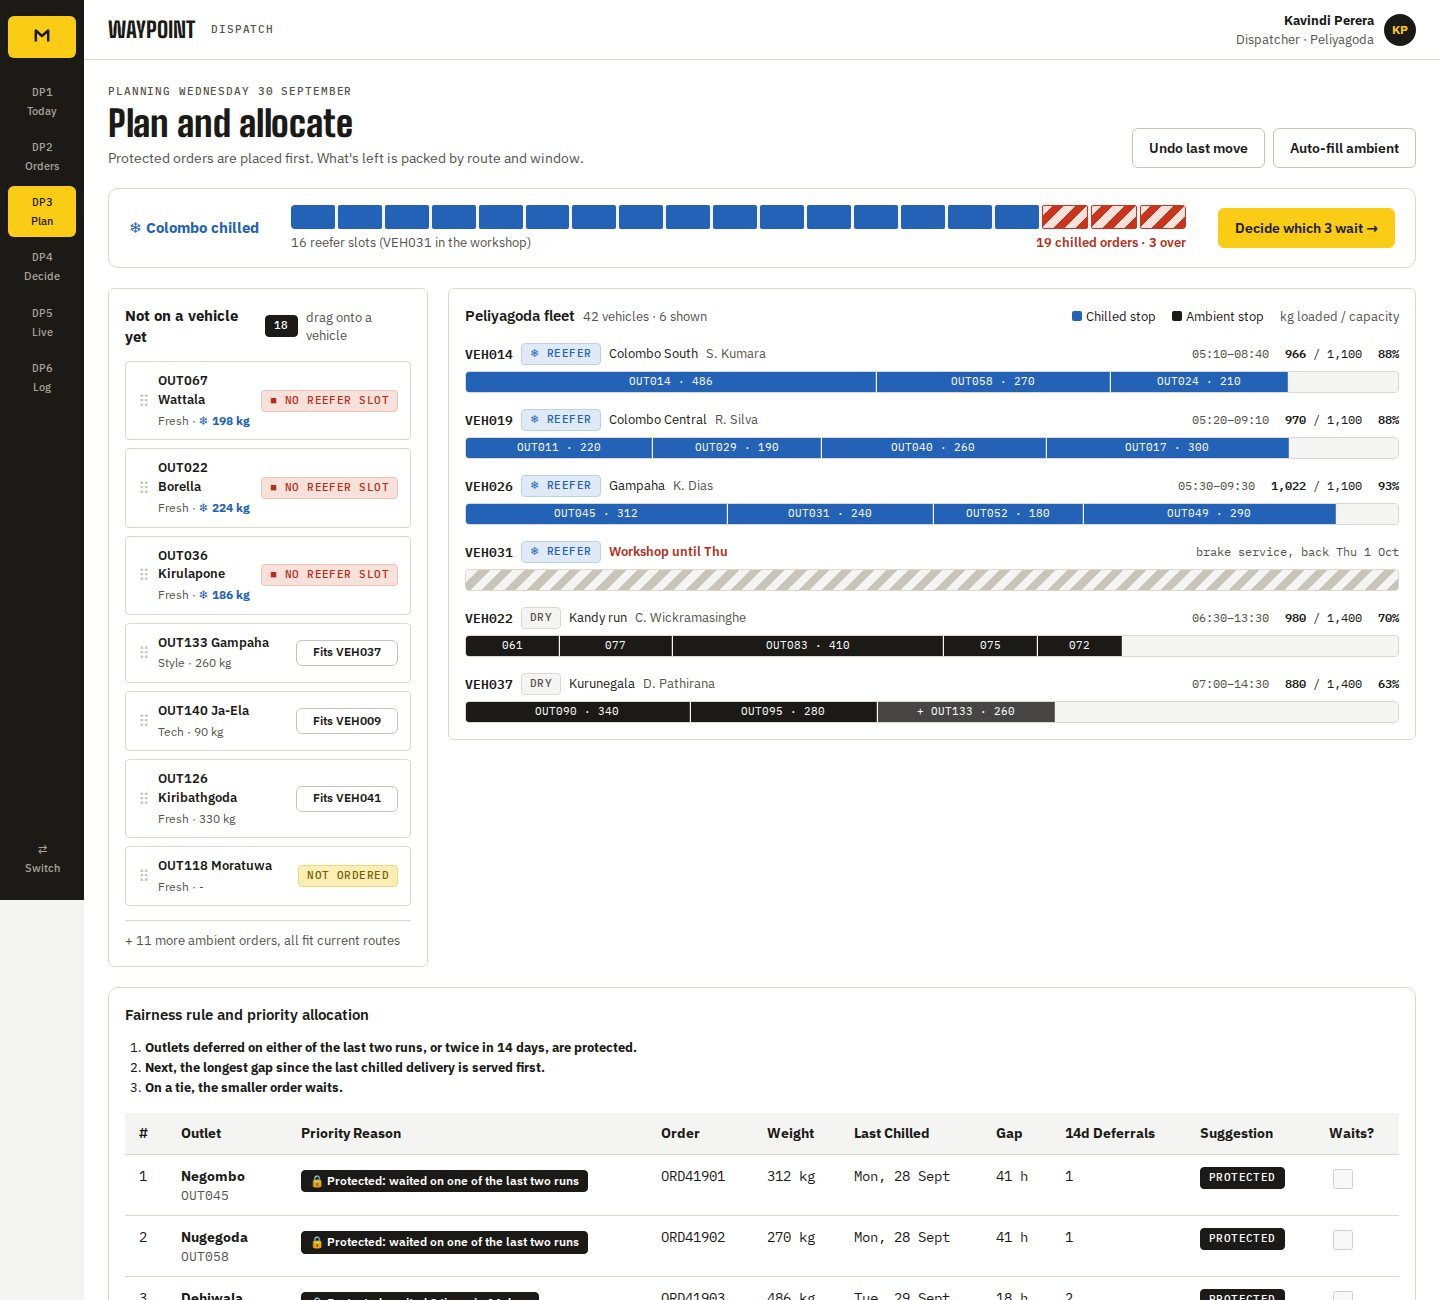
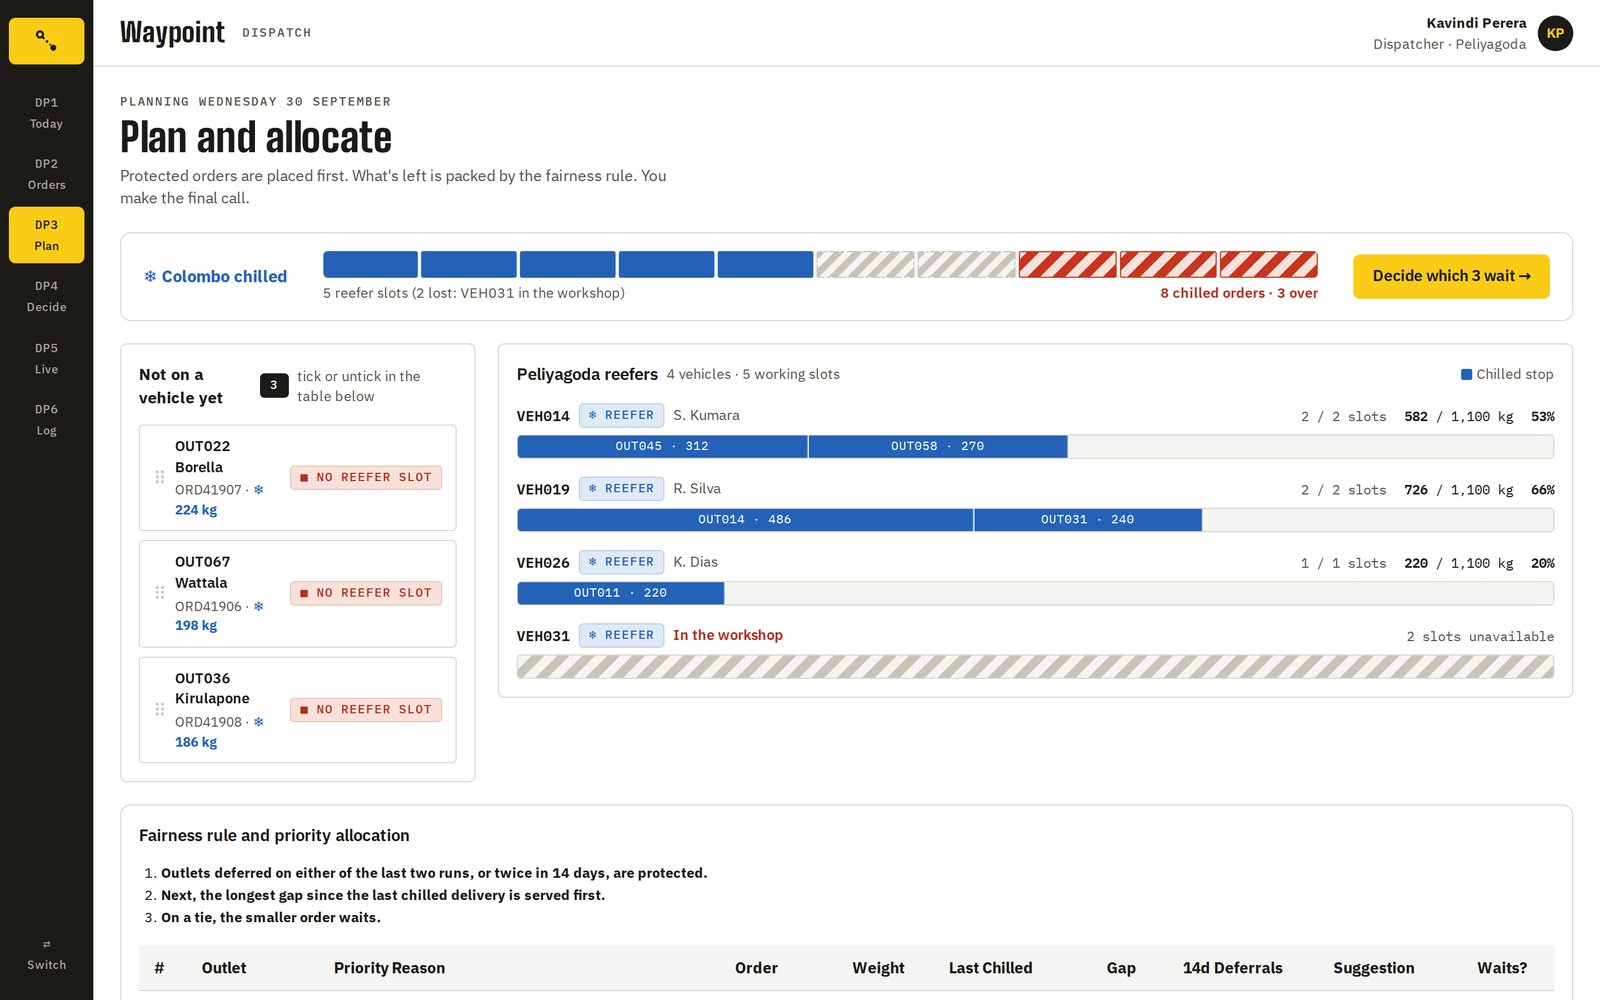
docs: README screenshots by role, demo walkthrough update (#105)
Closes #79

diff --git a/docs/DEMO_SCRIPT.md b/docs/DEMO_SCRIPT.md
@@ -20,7 +20,7 @@ Optional: run `npm run sim` in another terminal so VEH022 moves along the A1 on 
 ## 1. Dock shortfall: degradation scenario 1 (60 s)
 
 1. **Loader:** open VEH022 → load plan. "It's 04:30, Ruwan is loading the Kandy truck."
-2. Press **Short** on Rice for Kandy City → set 4 of 5 → reason **Damaged** → **Flag 1 short and keep loading**.
+2. Open stop 5 **Kandy City**, tap **Rice, 5 kg bag**, count 4 of 5 → on the shortfall screen pick **Damaged** → **Flag 1 short and keep loading**.
 3. Say: "The truck is not blocked."
 4. **Dispatcher** (point at it): the live feed already shows "Short at the dock: 4 of 5 Rice, 5 kg bag for Kandy City" and Dock shortfalls went up. No refresh.
 5. **Store:** switch to `OUT072 Kandy City` → Notices: "1 Rice, 5 kg bag arrive on the next delivery", with the reason.
@@ -30,7 +30,7 @@ Optional: run `npm run sim` in another terminal so VEH022 moves along the A1 on 
 
 1. **Dispatcher:** **Plan Wednesday**. "8 chilled orders, 5 reefer slots, because VEH031 is in the workshop."
 2. Point at the rule and the table: "Negombo and Nugegoda waited yesterday, Dehiwala waited twice in two weeks, so they are protected. Kelaniya has the longest gap. Three stores that got chilled goods yesterday wait."
-3. **Review 3 deferrals** → read the message → **Confirm and tell 3 stores**.
+3. **Decide which 3 wait →** → read the live store preview → **Confirm 3 deferrals**.
 4. **Store:** switch to `OUT022 Borella` → the notice explains why, and says they are protected next time.
 5. DP6 log: "Every decision is recorded with who made it and why."
 
@@ -38,11 +38,11 @@ Optional: run `npm run sim` in another terminal so VEH022 moves along the A1 on 
 
 1. **Driver:** tap **Online** at the top to switch to **No signal**. "Chamara is in the Kadugannawa pass. No signal."
 2. **Dispatcher:** the feed shows "VEH022 lost signal". (DP5 Live shows it too.)
-3. **Driver:** Kegalle → **Deliver here** → "Received by Sunil Perera" → **Complete delivery**. It says "saved on phone". Do the same for Peradeniya.
+3. **Driver:** Kegalle → **I've arrived · start handover** → the store manager signs on the screen, received by "Sunil Perera" → **Complete delivery**. It says "saved on phone". Do the same for Peradeniya.
 4. **Dispatcher** meanwhile: on the Runs card press **Move Kandy City to tomorrow** → **Confirm**. "Dispatch thinks Kandy City can't be reached today."
-5. **Driver:** Kandy City → deliver it anyway (he got there in time) → saved on phone.
-6. **Driver:** Saved tab → **Demo: signal is back**. Two records sync silently. "Clean records just go through. No pop-ups."
-7. **Driver:** Sync tab: "1 needs a decision. The phone says delivered, the office moved it to tomorrow." Tap **It was delivered. Keep my record**.
+5. **Driver:** Kandy City → hand it over anyway (he got there in time) → saved on phone.
+6. **Driver:** tap **No signal** at the top to come back online. Two records sync silently. "Clean records just go through. No pop-ups."
+7. **Driver:** Sync tab: "1 needs a decision. The phone says delivered, the office moved it to tomorrow." Tap **It was delivered, send my proof**.
 8. **Dispatcher:** feed shows "Resolved ... kept the driver's delivery", the run is 5 of 5, and DP6 shows the deferral as reversed with the reason.
 
 ## 4. Close (30 s)

diff --git a/README.md b/README.md
@@ -6,7 +6,7 @@ Waypoint is a delivery operations platform for a retail chain that supplies its 
 
 Team **smoothOperator** · Rootcode Tech-Triathlon 2026
 
-![Dispatcher dashboard](docs/screenshots/dispatcher-today.jpg)
+![Waypoint on the dispatcher's desktop, the dock tablet and the driver's phone](docs/screenshots/hero.jpg)
 
 ## The problem
 
@@ -36,10 +36,27 @@ Every change is published as an event and pushed to every open screen, so a shor
 
 When chilled orders exceed reefer slots, outlets that waited on either of the last two runs, or twice in 14 days, are protected. The rest are ranked by the longest gap since their last chilled delivery, and on a tie the smaller order waits. The dispatcher makes the final call and the store reads the reason in plain language.
 
-| | |
-|---|---|
-| ![Plan and allocate](docs/screenshots/dispatcher-plan.jpg) | ![Flag a shortfall](docs/screenshots/loader-shortfall.jpg) |
-| ![Driver route](docs/screenshots/driver-route.jpg) | ![Sync decision](docs/screenshots/driver-sync.jpg) |
+## Screens
+
+### Dispatcher: plan and allocate
+Capacity, the reefer fleet and the fairness ranking update as the dispatcher ticks who waits.
+
+![Plan and allocate](docs/screenshots/dispatcher-plan.jpg)
+
+### Loader: the dock tablet
+Dark, glove-friendly screens for 04:30. The truck is loaded last stop first, and a shortfall is flagged without blocking it.
+
+![Load plan and shortfall](docs/screenshots/loader.jpg)
+
+### Driver: the phone
+Route, stop handover, proof of delivery with signature and photo, and the sync decision when phone and office disagree.
+
+![Driver app](docs/screenshots/driver.jpg)
+
+### Store manager
+What is coming and why it changed, in plain language.
+
+![Store manager](docs/screenshots/store.jpg)
 
 ## Architecture
 
@@ -90,6 +107,7 @@ Open the app, pick a role, and open a second role in another window to watch cha
 | `npm run build` | Production build of the web app |
 | `npm start` | API also serves the built app on one port |
 | `npm run format` | Format the code base |
+| `npm run sim` | Drive VEH022 along the A1 so the live map moves |
 
 **Reset demo data** on the home page restores the scenario: Tuesday 29 September, planning Wednesday 30 September, the Kandy run already on the road.
 
@@ -125,7 +143,7 @@ docs/                 API contract, data model, design system, deployment, demo
 
 | | |
 |---|---|
-| Theenuka Bandara | Team lead, platform and integration, delivery and sync services |
+| Theenuka Bandara | Platform, integration, delivery and sync services |
 | Shukri Ahamed | Orders, planning, deferral and store notice services |
 | Vanuja Karunaratne | Dispatcher app |
 | Chinthaka Dissanayake | Dock loader app |
